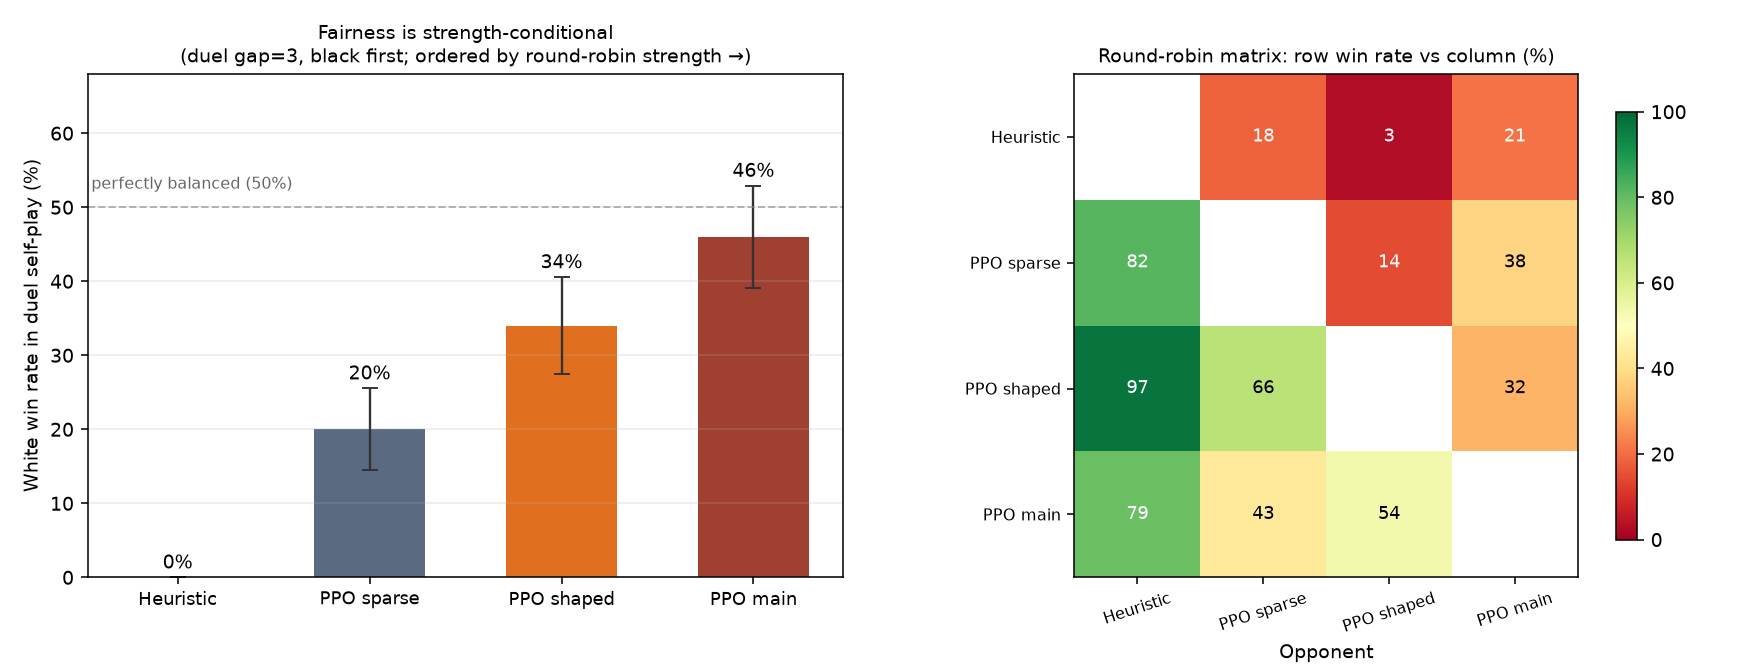
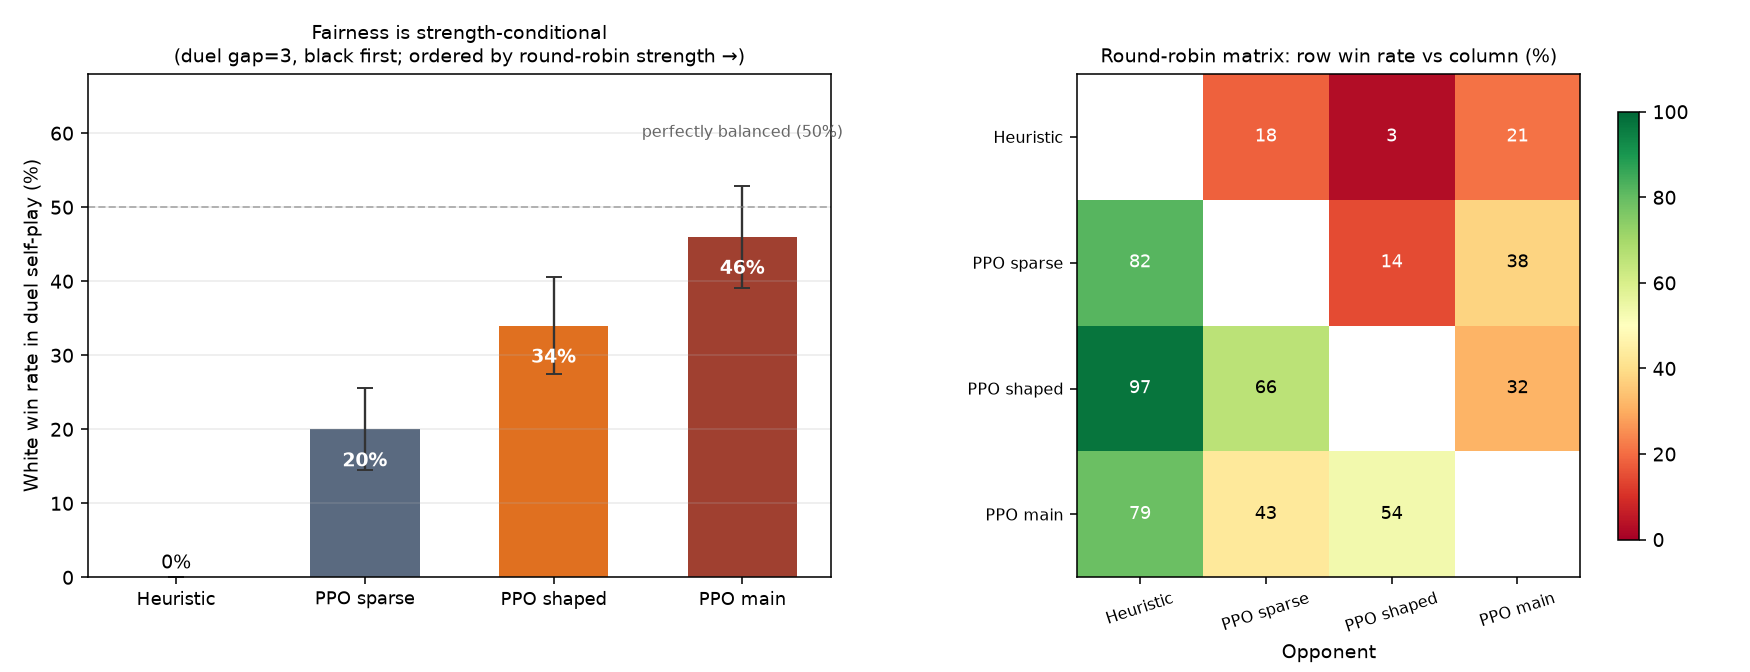
Fig 4: move bar labels inside bars, balance annotation above tallest bar

diff --git a/python/fig_strength_fairness.py b/python/fig_strength_fairness.py
@@ -32,9 +32,12 @@ ax1.bar(x, WHITE_WR, color=colors, width=0.58)
 for i, (wr, n) in enumerate(zip(WHITE_WR, N_GAMES)):
     se = 100 * (wr / 100 * (1 - wr / 100) / n) ** 0.5 * 1.96
     ax1.errorbar(i, wr, yerr=se, fmt='none', ecolor='#333', capsize=4, lw=1.2)
-    ax1.text(i, wr + se + 1.2, f'{wr:.0f}%', ha='center', fontsize=10)
+    if wr >= 15:
+        ax1.text(i, wr - 5.0, f'{wr:.0f}%', ha='center', fontsize=10, color='white', fontweight='bold')
+    else:
+        ax1.text(i, wr + se + 1.2, f'{wr:.0f}%', ha='center', fontsize=10)
 ax1.axhline(50, color='#888', ls='--', lw=1, alpha=0.6)
-ax1.text(-0.45, 52.5, 'perfectly balanced (50%)', fontsize=8, color='#666', ha='left')
+ax1.text(3, 59.5, 'perfectly balanced (50%)', fontsize=8, color='#666', ha='center')
 ax1.set_xticks(x)
 ax1.set_xticklabels(NAMES, fontsize=9)
 ax1.set_ylabel('White win rate in duel self-play (%)')
